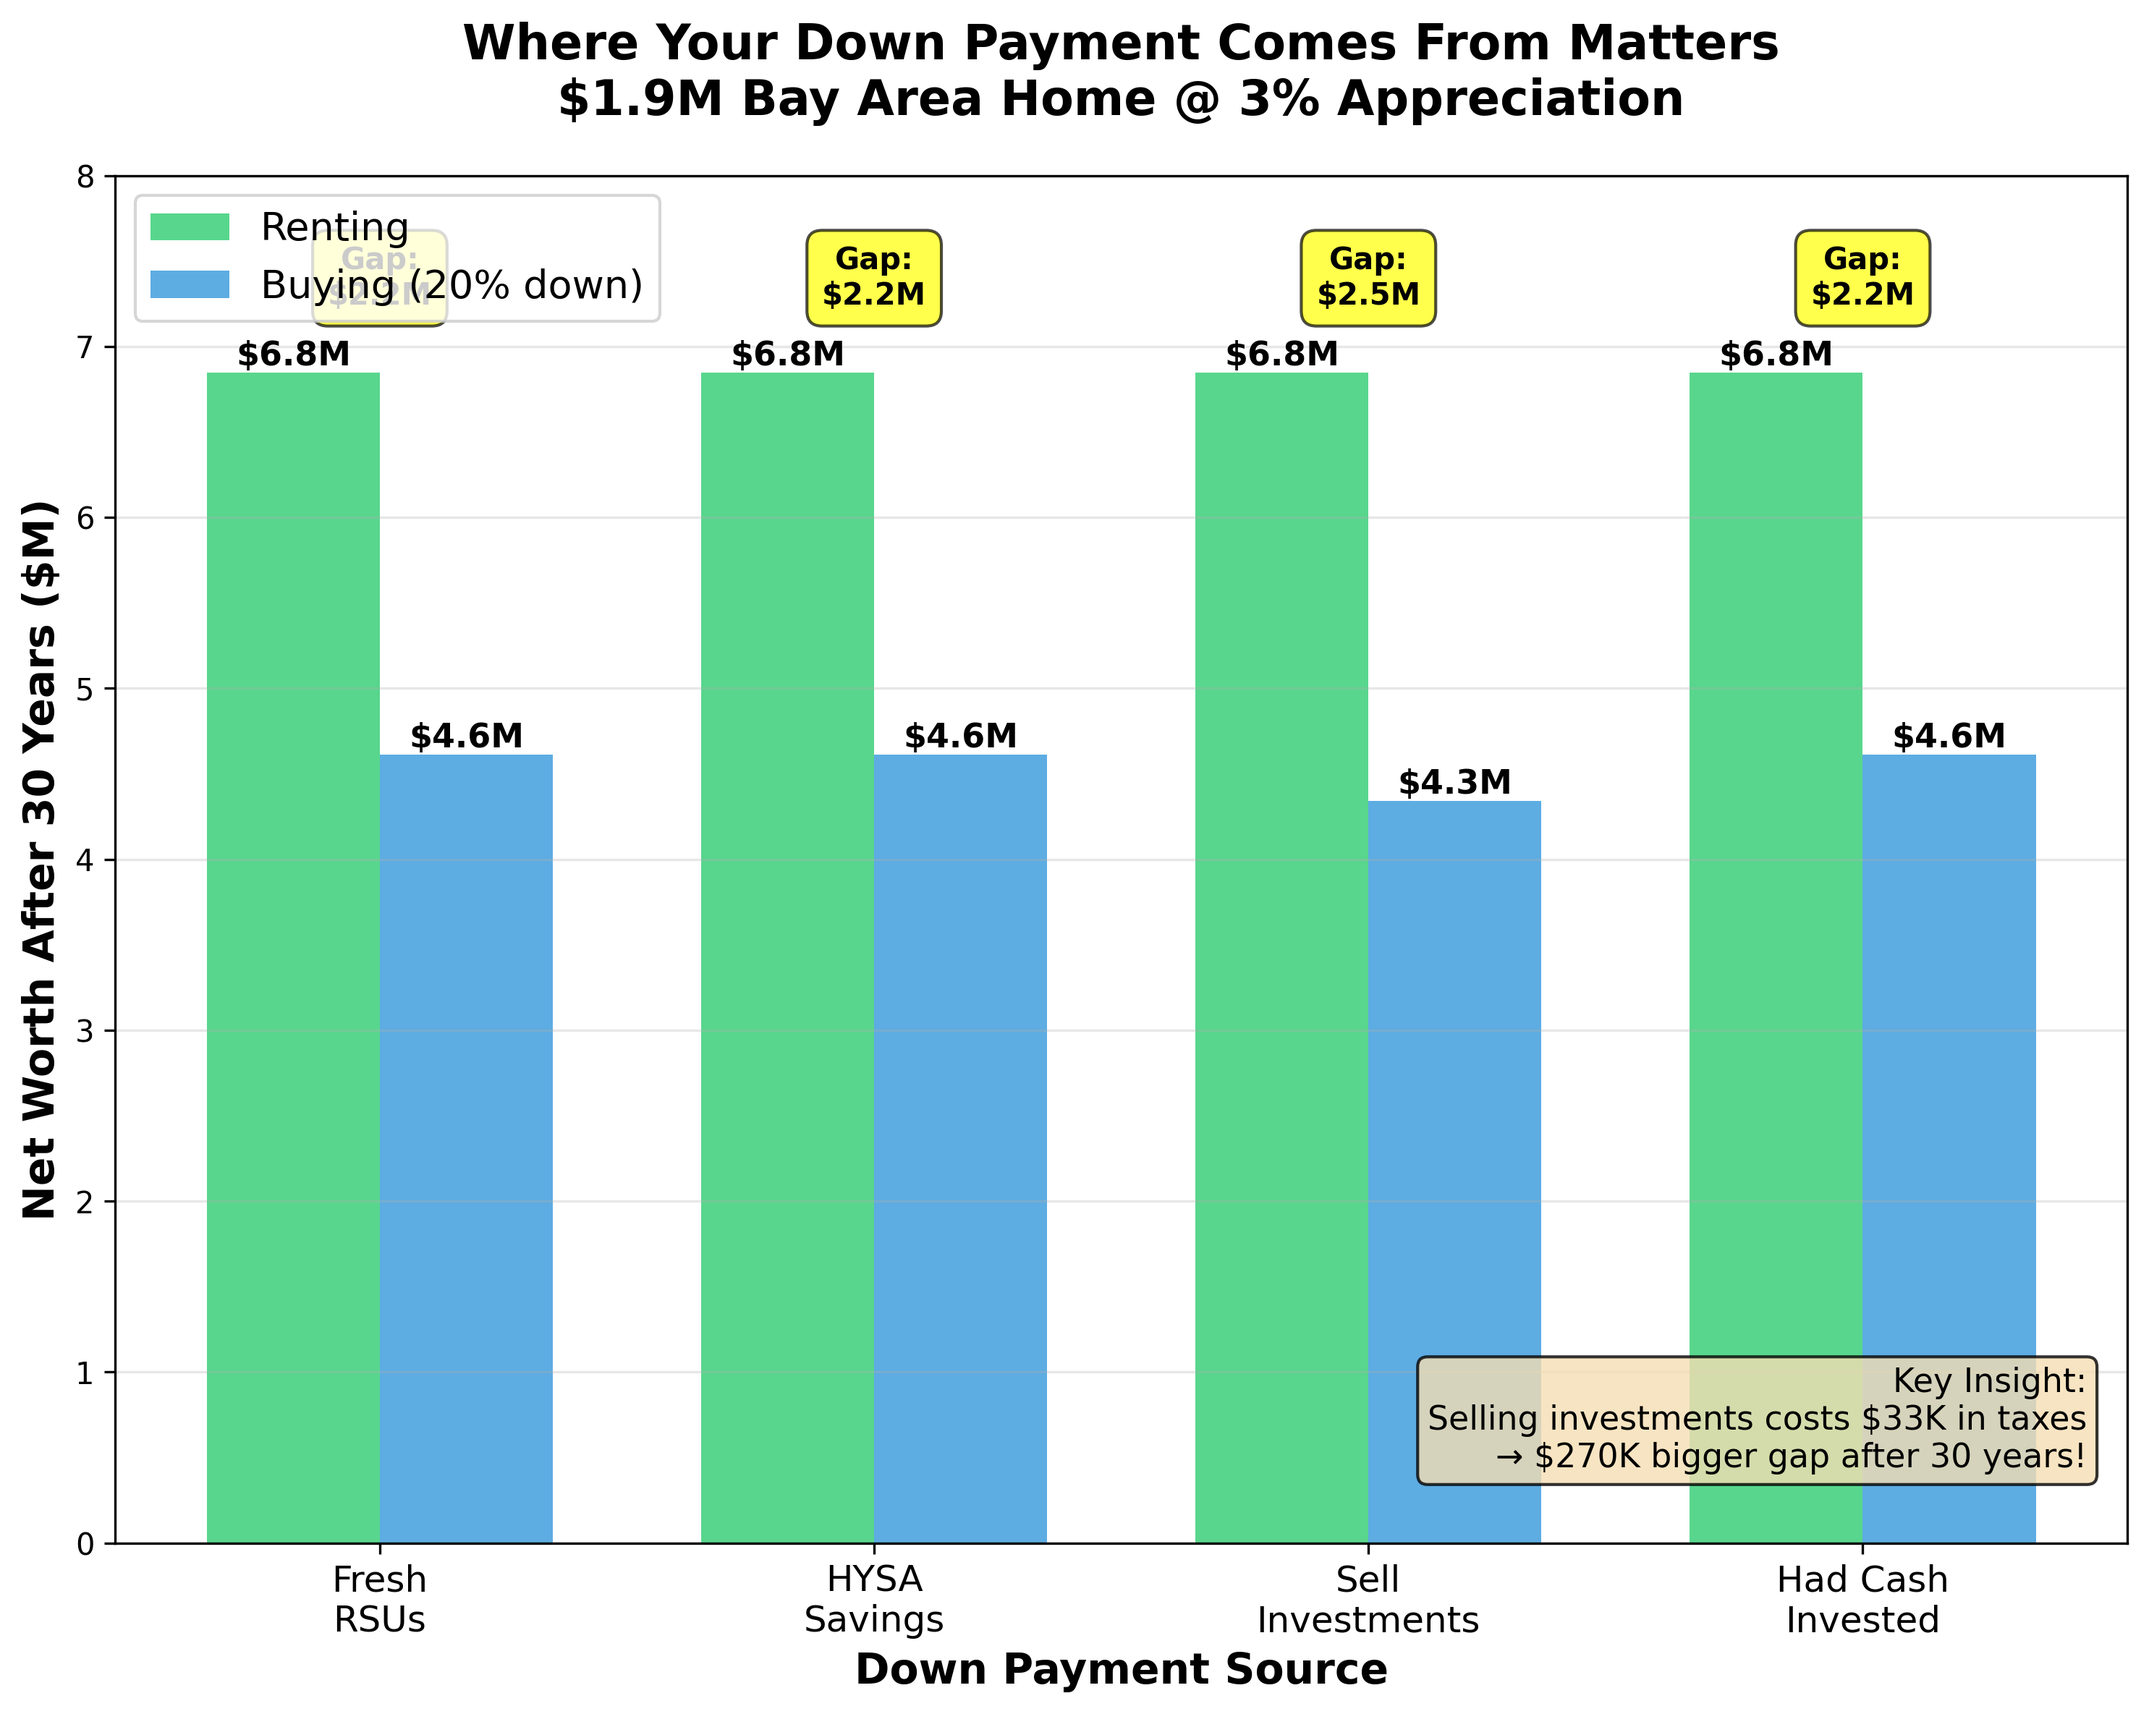
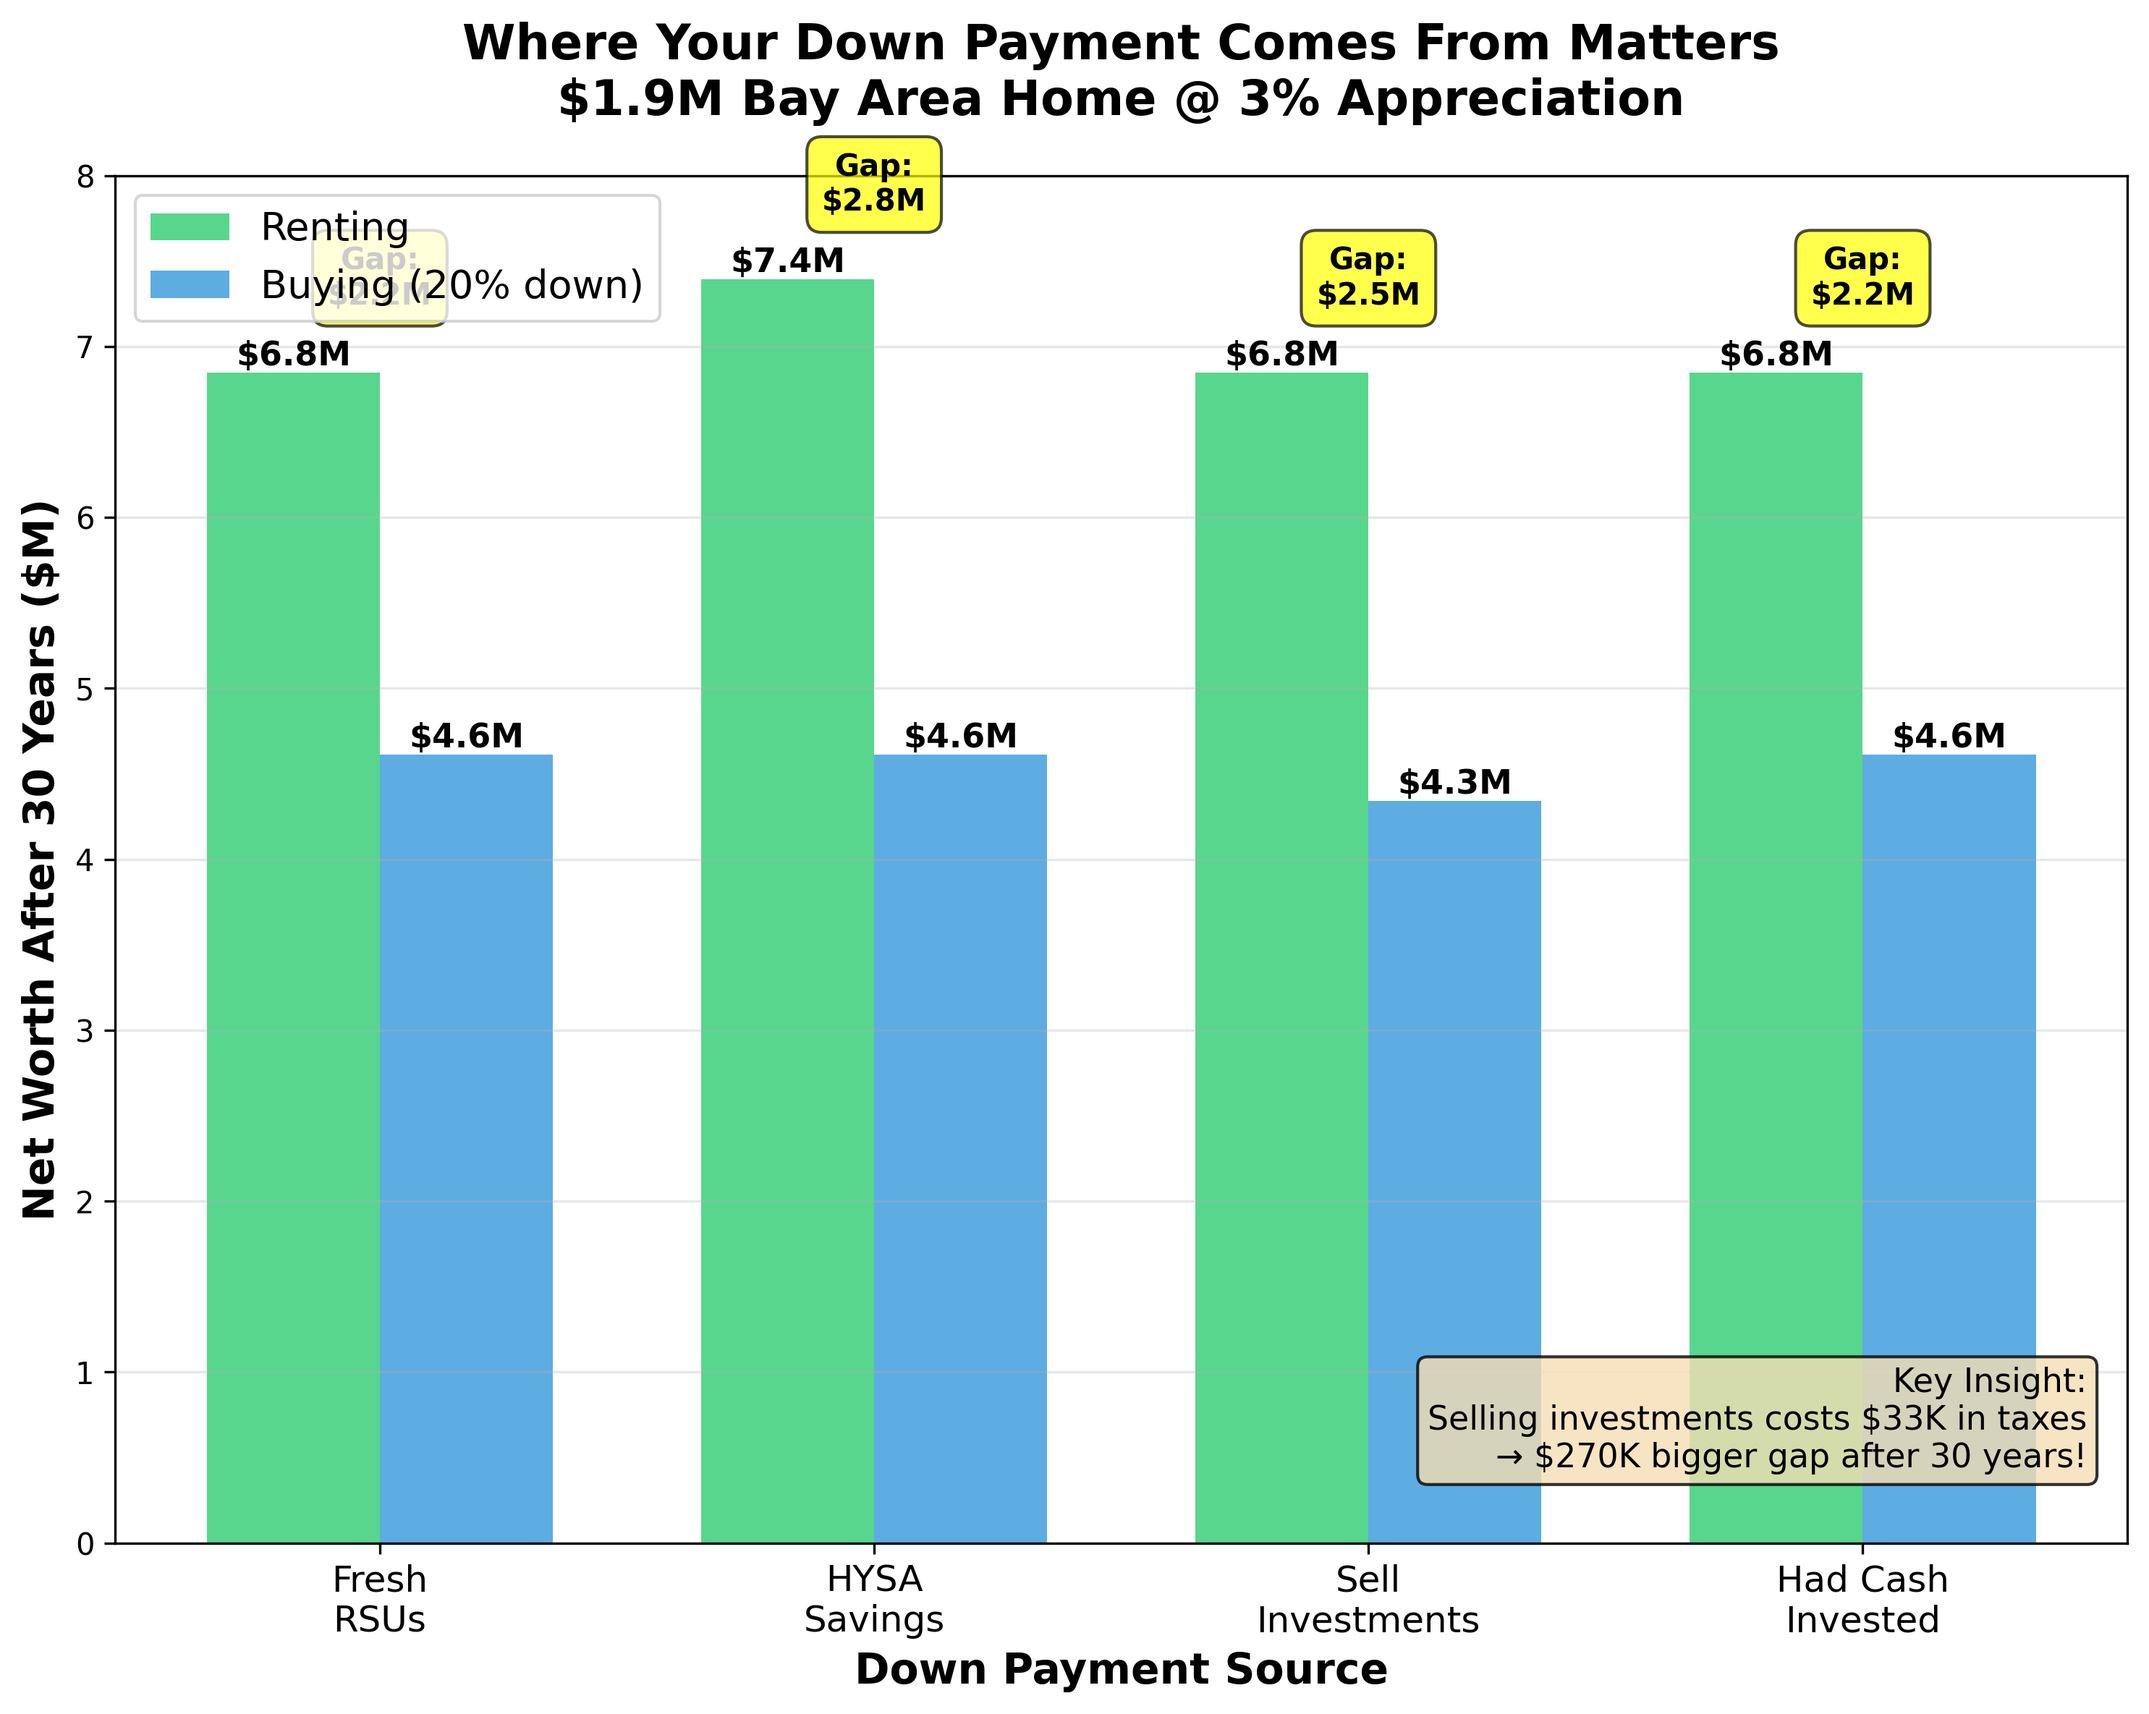
Fix HYSA scenario to properly account for opportunity cost
CRITICAL FIX: HYSA scenario was incorrectly showing same outcome as RSUs.

The correct comparison for HYSA:
- Saved $364K four years ago
- Path A (HYSA at 3%): Grew to $410K
- Path B (Stocks at 7%): Would have grown to $477K
- Already lost $67K by being conservative!

Corrected results show HYSA is actually THE WORST scenario:
1. Fresh RSUs: Renting wins by $2.2M (baseline)
2. Had Cash Invested: Renting wins by $2.2M (same)
3. Sell Investments: Renting wins by $2.5M (+$270K worse)
4. HYSA Savings: Renting wins by $2.8M (+$548K worse!)

Key insight: Being conservative with HYSA costs you $67K over 4 years,
which compounds to $548K bigger gap after 30 years.

This shows that "saving conservatively for a down payment" backfires -
you lose both on the 4 years of lower growth AND on rent vs buy!

Updated visualizations to reflect corrected analysis.

🤖 Generated with [Claude Code](https://claude.com/claude-code)

Changed region(s): [[0.3098, 0.0625, 0.4646, 0.2187]]

diff --git a/down_payment_source_analysis.py b/down_payment_source_analysis.py
@@ -196,21 +196,28 @@ print()
 # FV = PV * (1 + r)^t, solving for PV
 years_saving = 4
 hysa_rate = 0.03
+stock_rate = 0.07
 amount_needed_4_years_ago = TOTAL_UPFRONT / ((1 + hysa_rate) ** years_saving)
+
+# What if they had invested in stocks instead?
+amount_if_stocks = amount_needed_4_years_ago * ((1 + stock_rate) ** years_saving)
+opportunity_cost_4_years = amount_if_stocks - TOTAL_UPFRONT
+
 print(f"Setup:")
 print(f"  • Saved ${amount_needed_4_years_ago:,.0f} four years ago")
-print(f"  • Grew at 3% after-tax in HYSA/T-bills")
-print(f"  • Now have ${TOTAL_UPFRONT:,.0f} for down payment")
+print(f"  • Path A (HYSA at 3%): Grew to ${TOTAL_UPFRONT:,.0f}")
+print(f"  • Path B (Stocks at 7%): Would have grown to ${amount_if_stocks:,.0f}")
+print(f"  • Opportunity cost of being conservative: ${opportunity_cost_4_years:,.0f}")
 print()
 print("Analysis:")
-print(f"  • Buyer: Uses ${TOTAL_UPFRONT:,.0f} for down payment, starts with $0 invested")
-print(f"  • Renter: Keeps ${TOTAL_UPFRONT:,.0f} invested, switches to 7% stocks going forward")
-print(f"  • Drag: 4% differential (7% stocks - 3% HYSA)")
+print(f"  • Buyer: Has ${TOTAL_UPFRONT:,.0f} from HYSA, uses for down payment, starts with $0 invested")
+print(f"  • Renter: Would have had ${amount_if_stocks:,.0f} if invested in stocks, invests that going forward")
+print(f"  • Drag: Already lost ${opportunity_cost_4_years:,.0f} over 4 years by being conservative")
 print()
 
 scenario2 = run_scenario(
-    buyer_starting_capital=TOTAL_UPFRONT,
-    renter_starting_capital=TOTAL_UPFRONT,
+    buyer_starting_capital=TOTAL_UPFRONT,  # Buyer has HYSA amount
+    renter_starting_capital=amount_if_stocks,  # Renter has what stocks would have been
     scenario_name="HYSA Savings"
 )
 
@@ -308,9 +315,10 @@ print("   - You wouldn't have had the money otherwise")
 print()
 
 print("2. HYSA SAVINGS (4% Differential):")
-print(f"   - Gap: ${abs(scenario2['difference']):,.0f} (same as RSUs)")
-print("   - Same outcome as RSUs - both start with same capital")
-print("   - The 4 years of 3% vs 7% already happened in the past")
+print(f"   - Gap: ${abs(scenario2['difference']):,.0f}")
+print(f"   - Being conservative cost ${opportunity_cost_4_years:,.0f} over 4 years")
+print(f"   - That compounds to ${abs(scenario2['difference']) - abs(scenario1['difference']):,.0f} bigger gap after 30 years")
+print(f"   - Total penalty for HYSA: ${abs(scenario2['difference']):,.0f} vs RSUs ${abs(scenario1['difference']):,.0f}")
 print()
 
 print("3. SELL INVESTMENTS (7% + Tax Hit):")
@@ -334,12 +342,13 @@ print("Down payment source creates a ${:,.0f} swing in outcomes!".format(
     abs(scenario3['difference']) - abs(scenario1['difference'])
 ))
 print()
-print("Best case (RSUs/HYSA):     Renting wins by ${:,.0f}".format(abs(scenario1['difference'])))
-print("Worst case (Sell stocks):  Renting wins by ${:,.0f}".format(abs(scenario3['difference'])))
+print("Best case (Fresh RSUs):         Renting wins by ${:,.0f}".format(abs(scenario1['difference'])))
+print("Conservative savings (HYSA):    Renting wins by ${:,.0f}".format(abs(scenario2['difference'])))
+print("Worst case (Sell stocks):       Renting wins by ${:,.0f}".format(abs(scenario3['difference'])))
 print()
-print("Why selling investments is worst:")
-print(f"  • Pay ${capital_gains_tax:,.0f} in taxes upfront")
-print(f"  • That ${capital_gains_tax:,.0f} could have grown to ${capital_gains_tax * (1.07**30):,.0f} over 30 years!")
+print("Why each scenario differs:")
+print(f"  • HYSA: Lost ${opportunity_cost_4_years:,.0f} over 4 years → compounds to ${abs(scenario2['difference']) - abs(scenario1['difference']):,.0f} extra gap")
+print(f"  • Sell stocks: Pay ${capital_gains_tax:,.0f} in taxes → compounds to ${abs(scenario3['difference']) - abs(scenario1['difference']):,.0f} extra gap")
 print()
 
 # Create visualization
@@ -474,18 +483,25 @@ print("📊 Fresh RSUs (vesting):")
 print(f"  → Renting wins by ${abs(scenario1['difference'])/1000:.0f}K")
 print()
 print("📊 Saved in HYSA over 4 years:")
-print(f"  → Renting wins by ${abs(scenario2['difference'])/1000:.0f}K (same as RSUs)")
+print(f"  → Already lost ${opportunity_cost_4_years/1000:.0f}K by being conservative")
+print(f"  → Renting wins by ${abs(scenario2['difference'])/1000:.0f}K (${(abs(scenario2['difference']) - abs(scenario1['difference']))/1000:.0f}K worse than RSUs)")
 print()
 print("📊 Sell long-term investments:")
 print(f"  → Pay ${capital_gains_tax/1000:.0f}K in cap gains tax upfront")
 print(f"  → Renting wins by ${abs(scenario3['difference'])/1000:.0f}K (${(abs(scenario3['difference']) - abs(scenario1['difference']))/1000:.0f}K worse!)")
 print()
-print("The difference? That ${:.0f}K tax hit grows to ${:.0f}K over 30 years.".format(
+print()
+print("The cost of being conservative with HYSA? ${:.0f}K over 4 years compounds to ${:.0f}K gap.".format(
+    opportunity_cost_4_years/1000,
+    (abs(scenario2['difference']) - abs(scenario1['difference']))/1000
+))
+print()
+print("The cost of selling investments? ${:.0f}K tax hit compounds to ${:.0f}K gap.".format(
     capital_gains_tax/1000,
     (abs(scenario3['difference']) - abs(scenario1['difference']))/1000
 ))
 print()
-print("Down payment source creates a ${:.0f}K swing in outcomes.".format(
+print("Down payment source creates a ${:.0f}K swing in outcomes (best to worst).".format(
     (abs(scenario3['difference']) - abs(scenario1['difference']))/1000
 ))
 print()
